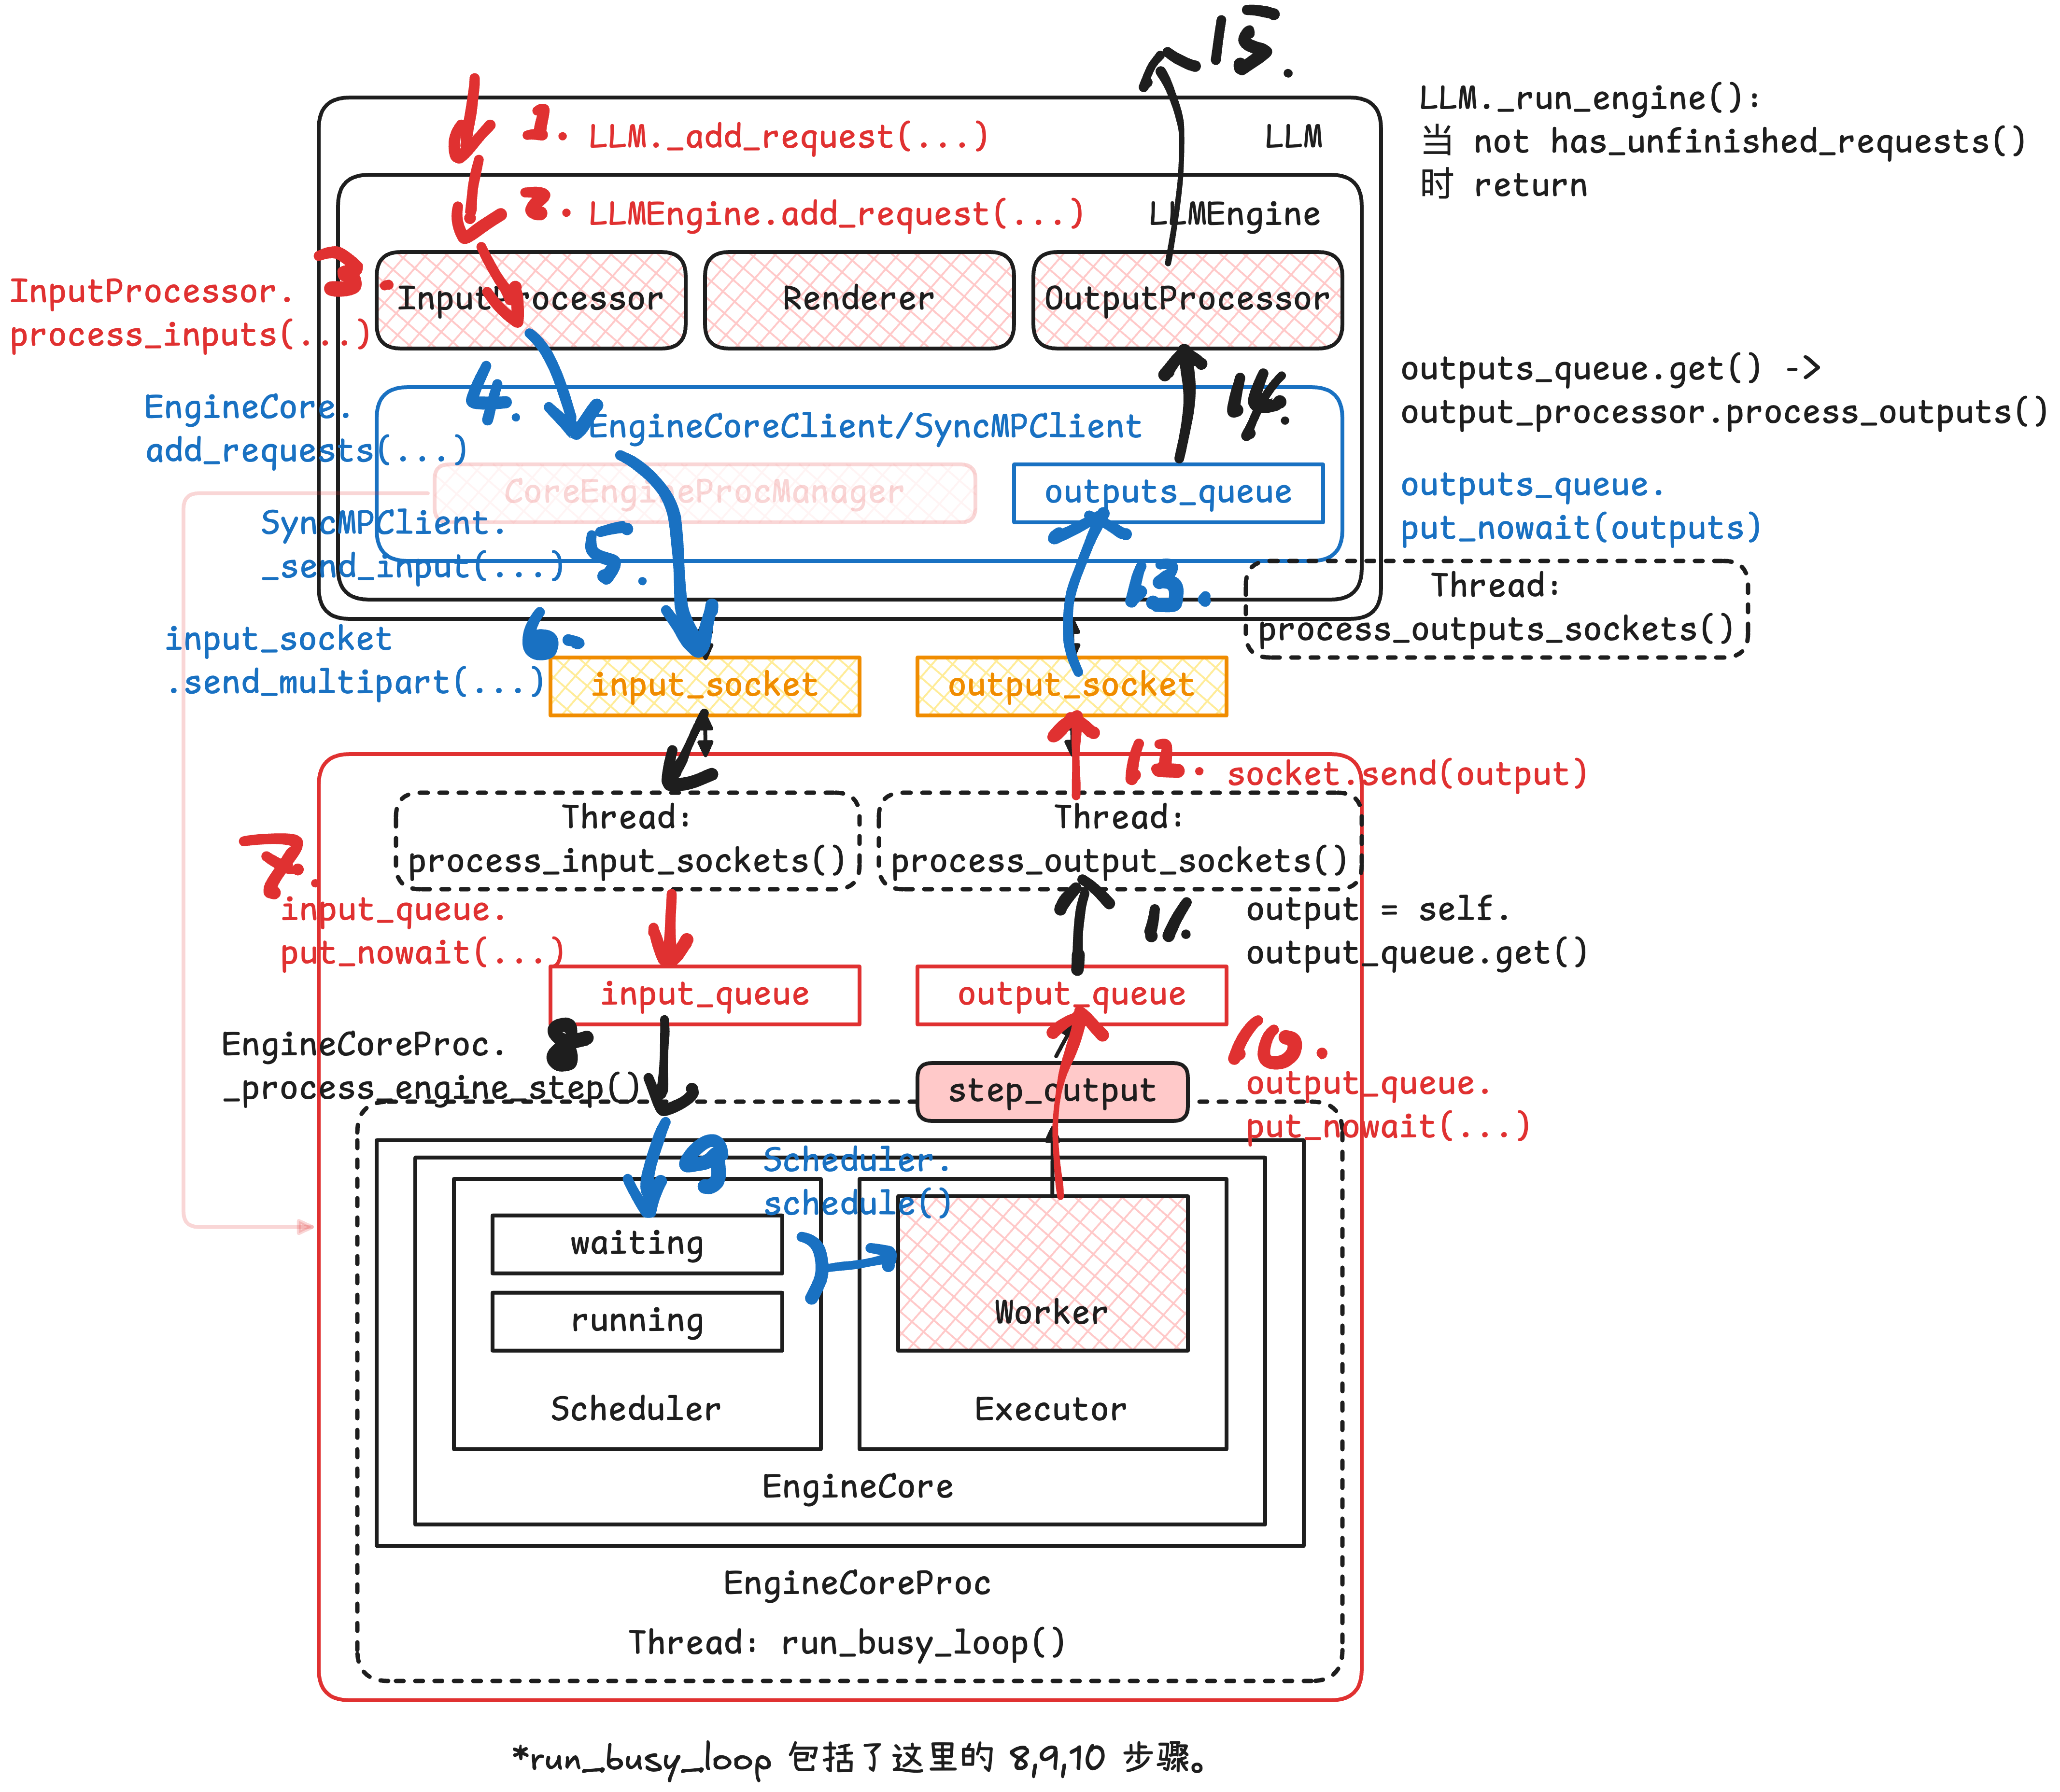
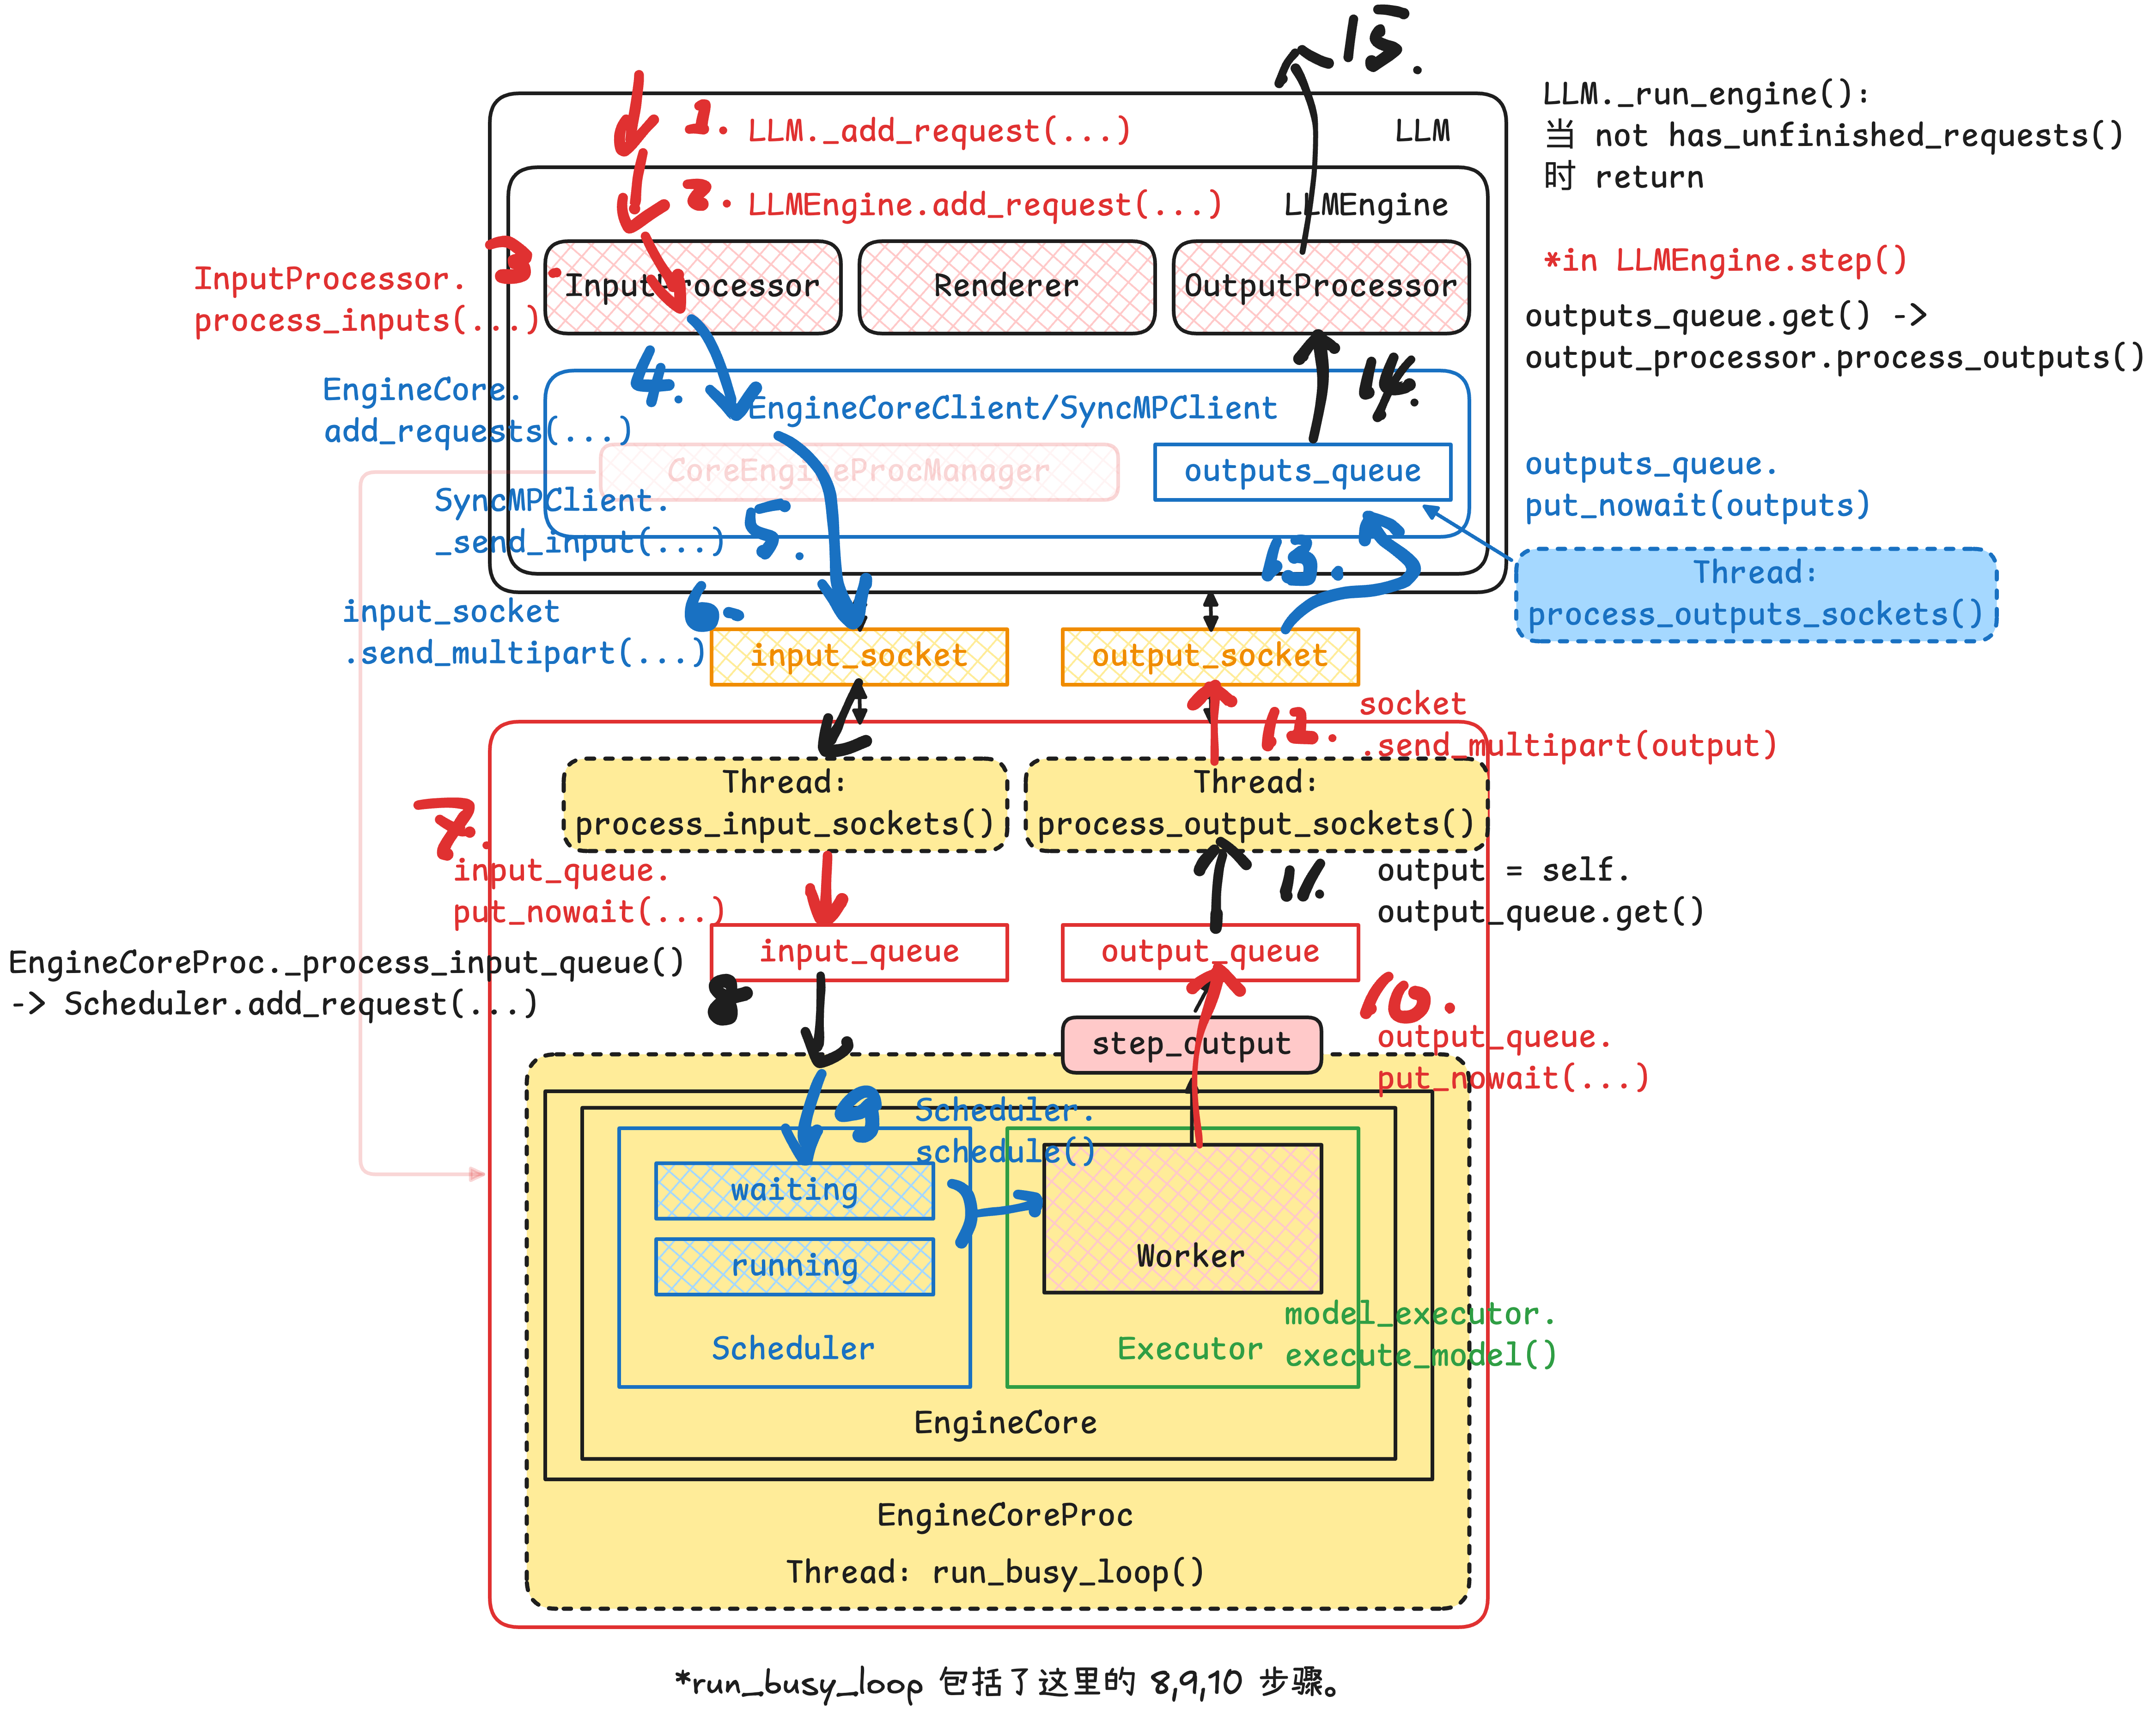
feat(blog): add blog

Changed region(s): [[0.0, 0.0, 0.9977, 0.9688], [0.2494, 0.9688, 0.6235, 1.0]]

diff --git a/src/content/posts/paper-reading/LLM Emulation.md b/src/content/posts/paper-reading/LLM Emulation.md
@@ -1,0 +1,114 @@
+---
+title: 【论文阅读笔记】LLM Emulation：Revati 和 LLM-Emu
+published: 2026-05-24T20:24:04.974Z
+description: ""
+updated: ""
+tags:
+  - Paper-Reading
+draft: true
+pin: 0
+toc: true
+lang: ""
+abbrlink: llm-simulator
+---
+## LLM 模拟器介绍
+
+### LLM Simulator/Emulator 使用动机
+
+
+**LLM Simulator/Emulator 可以有效减少评估部署配置成本 (Revati)**。
+
+以部署 Qwen3-235B-A22B 为例：运维人员需要选择
+- 张量并行（TP）度数（1–8）
+- 流水线并行（PP）阶段数（1–8）
+- 专家并行（EP）度数（1–8）
+- 最大 batch size（1–256）
+- chunked prefill 大小（256–8192 tokens）
+- KV Cache 淘汰策略（LRU、LFU、cost-aware）
+- 请求路由策略（round-robin、sticky、cache-aware）
+- 解耦部署策略（prefill/decode 共置还是分离）
+等配置组合，这些共同构成了一个极其巨大的设计空间。
+
+已有研究表明，如果能够根据模型特征与 workload 特征合理调优这些配置，系统吞吐量可以提升 3–5 倍。因此，为了有效部署这些系统，运维人员通常需要在代表性 workload 上测试不同配置，并从中选出既满足延迟要求、又能提供最大吞吐量的方案。
+
+问题在于：评估单个配置通常需要约 2–4 小时的 profiling，才能收集到具有统计意义的 tail latency 数据。对于一个 64-GPU 集群而言，以当前 H100 云端价格（每 GPU 每小时约 2.5–7 美元）计算，仅仅评估 100 个配置，就需要消耗 12,800–25,600 GPU-hours，总成本高达 3.2 万到 17.9 万美元。这意味着，对整个配置空间进行系统性的穷举探索，在工程实践中几乎不可承受。最终，大多数部署者不得不依赖经验性的 heuristics 或少量人工试验来完成配置选择，而难以真正找到全局最优部署方案。
+
+为了降低配置评估成本，当前业界与学术界普遍采用**离散事件模拟器（Discrete-Event Simulators, DES）** 来替代真实硬件实验。这类系统试图以较低代价对 serving system 的运行行为进行建模，从而在不实际执行 GPU 计算的情况下，快速预测不同配置下的系统性能。相比直接在真实集群上反复部署与 profiling，模拟器能够显著降低实验成本，并加速设计空间探索，因此逐渐成为大规模 LLM serving 配置优化中的重要工具。
+
+这些工具的核心做法是：在一个简化的模拟框架中，手动**重新实现**服务系统的控制逻辑，例如调度器、内存分配器以及请求路由器。随后，通过一个性能模型来预测 GPU 执行某个 batch 所需要的时间。模拟器会将自己的时钟推进这么长的时间，并继续处理下一个事件。
+
+由于整个过程中不需要真正执行 GPU 计算，这类模拟器可以在无需真实硬件的前提下，实现相比真实运行速度快一个数量级的加速。
+
+### Simulator 和 Emulator 区别
+
+传统的 **Simulator** 并不会直接运行真实的 serving system，而是手动复现其中的核心逻辑，例如 scheduler、batching、KV cache 管理与请求调度等，再结合 workload trace 与性能模型来模拟系统行为。因此，本质上它是在“重新实现”一个简化版系统，其准确性高度依赖于模型是否能够正确刻画真实系统的行为。
+
+而 **Emulator** 则不同，它会直接运行真实的 serving framework（例如 vLLM 或 SGLang）的原始代码，保留真实的 control plane 与调度逻辑，只对底层硬件执行部分进行虚拟化，例如将 GPU computation、CUDA API 调用或显存分配替换为 sleep、runtime prediction 或 virtual time jump 等机制。因此，Emulator 的核心思想并不是重新模拟系统逻辑，而是在“真实系统 + 虚拟硬件”的基础上运行，从而尽可能减少 simulator 中常见的 semantic gap 问题。
+
+
+### 现有 LLM Simulator 局限性
+
+
+1. 重新实现 serving framework 的调度与运行时逻辑相关问题 (Revati)
+	1. 实现细节高度复杂，复现逻辑和实际实现不同
+	2. 同样策略或逻辑在不同框架下有不同实现方式等
+	3. 实际代码迭代快导致代码维护困难
+2. 因此考虑能不能做 Emulator 来减少代码复现，同时实现更高性能建模效果
+
+## Revati (26.01)
+
+> 参考论文：[Revati: Transparent GPU-Free Time-Warp Emulation for LLM Serving](https://arxiv.org/abs/2601.00397)
+
+**Strawman approach: Sleep-Based Emulation**. 保留真实运行系统，但是当要去调用 GPU（例如内存分配、前向推理）的时候，直接替换为 `sleep(...)`.
+- 通过拦截 CUDA API calls via `LD_PRELOAD` 实现（在运行时做）
+- `sleep` 的时候阻塞 CPU thread
+- 因此事件没有被加速
+
+
+**Time-Accelerated Emulation**. 直接跳过 `sleep` 持续的时间，直接进入到下一个事件的 timestamp
+- 不阻塞，直接快进
+- 这是基于 data plane 的结果不影响 control plane 调度逻辑假设（对现行 LLM serving sytem 成立）
+- **需要保证是在保留因果关系的前提下**（需要我们实现）
+
+因此需要解决问题：**分布式离散事件模拟（PDES）**。如何在多个真实并发进程之间安全推进 virtual time，而不破坏 causality。
+
+现有的实现方式
+- Optimistic approaches：所有进程独立推进，遇到因果关系冲突回滚
+	- 不适用，因为我们这是 Emulation，不能回滚
+- **Conservative approaches**：各个进程在推进之前，需要先协调当前最远能够安全推进到哪里，所有进程固定推进一个当前全局安全的位置
+
+
+![Revati Conservative approach 的实现细节](Attachments/revati-convervative-approaches.png)
+
+可以理解为：
+
+```
+while True:
+    collect_all_actor_targets()
+    t = min(targets)
+    global_virtual_time = t
+    broadcast(t) // advance_to(t)
+```
+
+
+其他：
+- 在实现上，如果想 fake GPU，不能把所有 GPU memory 都一起 fake 掉。serving framework 的 GPU memory 里，有一部分其实承担了控制逻辑通信。这些数据在内存空间里实现。
+- 论文没有开源，也在 LLM-Emu 中被批评说拦截 API 行为并不稳定。
+
+## LLM-Emu (26.05)
+
+> 参考论文：[LLM-Emu: Native Runtime Emulation of LLM Inference via Profile-Driven Sampling](https://arxiv.org/abs/2605.00616)
+
+![LLM-Emu Workflow](Attachments/LLM-Emu.png)
+
+LLM-Emu 在 Revati 的基础上：
+
+- 离线采集真实 GPU 执行数据，建立 `(total_tokens, concurrency) -> latency distribution` 的 profile；
+- 将固定 `sleep(...)` 的 GPU emulation 替换为基于 profile 的 latency sampling 与 timer-based waiting；
+- 不采用 Revati 式的 aggressive time-warp，而是在真实 wall-clock 下运行真实 vLLM serving runtime。
+
+因此，虽然 GPU compute 被跳过，但 scheduler、KV-cache 管理、异步 worker、queueing、HTTP serving 等控制路径仍然沿用真实 runtime，从而能够保留 jitter、tail latency 与 request interaction 等在线 serving dynamics。
+
+其他：
+- 论文没有提到多 worker 时间协调，多节点 clock consistency 等等。
+- 代码开源在：https://github.com/AKafakA/llm-emu。且前公开的  LLM-Emu GitHub 仓库里，核心 patch 明确只接到了 `vllm.v1.executor.uniproc_executor`，只默认单机。

diff --git a/src/content/posts/vLLM/vLLM v1 离线推理流程源码 Debug.md b/src/content/posts/vLLM/vLLM v1 离线推理流程源码 Debug.md
@@ -28,7 +28,7 @@ abbrlink: vllm-system-offline-debug
 
 ![](Attachments/vLLM-v1-Offline-Inference.png)
 
-在离线推理阶段，可以用上图来表示所有组件之间的关系。需要注意的是 LLM 框和 EngineCoreProc 分别画在不同的框里，代表两个组件分别在不同的进程之间运行。正如下文将会看到，两个进程需要进行通信，通过 [Python ZMQ：消息传递库](../parallelism/Python%20ZMQ：消息传递库.md) 实现，以及通过 `input_socket` 和 `output_socket` 进行通信。途中 `CoreEngineProcManager` 指向 `EngineCoreProc` 的箭头表示 `CoreEngineProcManager` 负责维护这个进程的生命周期、上下文管理等。
+在离线推理阶段，可以用上图来表示所有组件之间的关系。需要注意的是 LLM 框和 EngineCoreProc 分别画在不同的框里，代表两个组件分别在不同的进程之间运行。正如下文将会看到，两个进程需要进行通信，通过 [Python ZMQ：消息传递库](../parallelism/Python%20ZMQ：消息传递库.md) 实现，以及通过 `input_socket` 和 `output_socket` 进行通信。图中 `CoreEngineProcManager` 指向 `EngineCoreProc` 的箭头表示 `CoreEngineProcManager` 负责维护这个进程的生命周期、上下文管理等。
 
 ## 初始化阶段
 
@@ -105,7 +105,7 @@ abbrlink: vllm-system-offline-debug
 这里进入 `launch_core_engines(...)` 函数。
 - 这个函数会创建一个 `CoreEngineProcManager` 对象，专门负责创建一个或多个（在多 DP/TP 等场景下）`EngineCoreProc` 实例、其运行环境配置以及生命周期管理，避免孤儿进程以及 `EngineCoreProc` 意外死亡等
 - 这个函数不属于 `EngineCoreClient (SyncMPClient)`
-- 生成的 `CoreEngineProcManager` 是返回给 `EngineCoreClient (SyncMPClient)` 持有（在后文将看到）。
+- 生成的 `CoreEngineProcManager` 是返回给 `EngineCoreClient (SyncMPClient)` 持有（结合前文第二张图和后文可以看到）。
 
 :::gallery
 ![](Attachments/vLLM-Basics-12.png)
@@ -208,6 +208,27 @@ abbrlink: vllm-system-offline-debug
 
 > 下面段落我让 GPT 帮我标注了一下对应 vLLM GitHub 仓库代码位置，感谢大模型🙏
 
+### 请求提交
+
+```
+LLM.generate(...)
+|--- LLM._run_completion(...)
+     |--- LLM._add_completion_requests(...)
+     |    |--- LLM._render_and_add_requests(...)
+     |         |--- LLM._add_request(...)
+     |              |--- LLMEngine.add_request(...)
+     |                   |--- LLMEngine.input_processor.process_inputs(...)
+     |                   |    |--- return EngineCoreRequest
+     |                   |
+     |                   |--- LLMEngine.output_processor.add_request(...)
+     |                   |    |--- 在主进程登记 request 状态
+     |                   |
+     |                   |--- LLMEngine.engine_core.add_request(...)
+     |                        |--- SyncMPClient.add_request(...)
+     |                             |--- SyncMPClient._send_input(...)
+     |                                  |--- SyncMPClient.input_socket.send_multipart(...)
+```
+
 1. 在 [`LLM.generate(...)`](https://github.com/Languisher/vllm-260519/blob/d247a931cc25e7253feccbd6260d48216ff5c081/vllm/entrypoints/llm.py#L425-L493) 时会调用 [`LLM._run_completion(...)`](https://github.com/Languisher/vllm-260519/blob/d247a931cc25e7253feccbd6260d48216ff5c081/vllm/entrypoints/llm.py#L1064-L1085)
    - 因此会调用 [`LLM._add_completion_requests(...)`](https://github.com/Languisher/vllm-260519/blob/d247a931cc25e7253feccbd6260d48216ff5c081/vllm/entrypoints/llm.py#L1017-L1062) 和 [`LLM._run_engine(...)`](https://github.com/Languisher/vllm-260519/blob/d247a931cc25e7253feccbd6260d48216ff5c081/vllm/entrypoints/llm.py#L1258-L1318)
    - 先看 [`LLM._add_completion_requests(...)`](https://github.com/Languisher/vllm-260519/blob/d247a931cc25e7253feccbd6260d48216ff5c081/vllm/entrypoints/llm.py#L1017-L1062)，会先调用 [`LLM._render_and_add_requests(...)`](https://github.com/Languisher/vllm-260519/blob/d247a931cc25e7253feccbd6260d48216ff5c081/vllm/entrypoints/llm.py#L1213-L1237)
@@ -237,6 +258,33 @@ abbrlink: vllm-system-offline-debug
 
    这里真正发生跨进程通信。请求会被编码成 multipart message，里面包含目标 EngineCore identity、请求类型以及序列化后的请求内容。对于主进程来说，到这一步它已经把任务“投递”出去了；真正的调度、KV Cache 管理、模型 forward 都发生在另一侧的 `EngineCoreProc` 中。
 
+### 后端执行
+
+```
+EngineCoreProc.process_input_sockets(...)
+|--- socket.recv_multipart(...)
+|--- deserialize request
+|--- EngineCoreProc.input_queue.put_nowait((request_type, request))
+
+EngineCoreProc.run_busy_loop(...)
+|--- EngineCoreProc._process_input_queue()
+|    |--- EngineCoreProc._handle_client_request(...)
+|         |--- EngineCoreProc.add_request(...)
+|              |--- EngineCore.scheduler.add_request(...)
+|
+|--- EngineCoreProc._process_engine_step()
+     |--- EngineCore.step()
+          |--- Scheduler.schedule()
+          |    |--- 生成本轮 SchedulerOutput
+          |
+          |--- model_executor.execute_model(...)
+          |    |--- 执行本轮模型 forward
+          |
+          |--- 生成 EngineCoreOutputs
+          |
+		  |--- output_queue.put_nowait(outputs)
+```
+
 7. 现在我们进入了 [`EngineCoreProc`](https://github.com/Languisher/vllm-260519/blob/d247a931cc25e7253feccbd6260d48216ff5c081/vllm/v1/engine/core.py#L796-L909) 进程。`EngineCoreProc` 包含了三个线程：[`process_input_sockets()`](https://github.com/Languisher/vllm-260519/blob/d247a931cc25e7253feccbd6260d48216ff5c081/vllm/v1/engine/core.py#L1396-L1489), [`process_output_sockets()`](https://github.com/Languisher/vllm-260519/blob/d247a931cc25e7253feccbd6260d48216ff5c081/vllm/v1/engine/core.py#L1491-L1562) 和 [`run_busy_loop()`](https://github.com/Languisher/vllm-260519/blob/d247a931cc25e7253feccbd6260d48216ff5c081/vllm/v1/engine/core.py#L1174-L1179)。首先由 [`process_input_sockets()`](https://github.com/Languisher/vllm-260519/blob/d247a931cc25e7253feccbd6260d48216ff5c081/vllm/v1/engine/core.py#L1396-L1489) 读取来自 `input_sockets` 的数据写入 `input_queue`: [`EngineCoreProc.input_queue.put_nowait((request_type, request))`](https://github.com/Languisher/vllm-260519/blob/d247a931cc25e7253feccbd6260d48216ff5c081/vllm/v1/engine/core.py#L1487-L1489)[^4]
 
    `process_input_sockets()` 是一个专门负责 IO 的线程。它并不直接调度请求，而是把 socket 中收到的请求解码之后放入 `input_queue`。这样设计的好处是：ZMQ IO、反序列化、请求预处理和真正的调度执行可以解耦，避免模型执行主循环被 socket IO 细节阻塞。
@@ -255,9 +303,45 @@ abbrlink: vllm-system-offline-debug
 
    这一步是真正的推理执行阶段。`scheduler.schedule()` 会根据当前所有 waiting/running requests、KV Cache 状态、token budget 等信息生成本轮的 `SchedulerOutput`。随后 `model_executor.execute_model(...)` 根据 scheduler 给出的 batch 执行模型 forward。换句话说，scheduler 决定这一轮算什么，model executor 负责“真正把这一轮算出来。
 
+
 10. [`EngineCoreProc._process_engine_step()`](https://github.com/Languisher/vllm-260519/blob/d247a931cc25e7253feccbd6260d48216ff5c081/vllm/v1/engine/core.py#L1210-L1229) 的末尾会执行 [`EngineCoreProc.output_queue.put_nowait(...)`](https://github.com/Languisher/vllm-260519/blob/d247a931cc25e7253feccbd6260d48216ff5c081/vllm/v1/engine/core.py#L1214-L1217)，放入 `output_queue`
 
    模型执行结束后，scheduler 会根据模型输出更新每个请求的状态，例如生成了哪些 token、哪些请求已经 finished、哪些请求仍然需要继续 decode。随后这些结果会被包装成 `EngineCoreOutputs`，放入 `output_queue`，等待输出线程发回主进程。
+
+### 结果回收
+
+```
+EngineCoreProc.process_output_sockets(...)
+|--- EngineCoreProc.output_queue.get()
+|--- socket.send_multipart(...)
+
+SyncMPClient.process_outputs_socket(...)
+|--- output_socket.recv_multipart(...)
+|--- deserialize EngineCoreOutputs
+|--- SyncMPClient.outputs_queue.put_nowait(outputs)
+
+*********************
+
+LLM._run_engine(...)
+|--- while LLMEngine.has_unfinished_requests():
+     |--- LLMEngine.step()
+          |--- LLMEngine.engine_core.get_output()
+          |    |--- SyncMPClient.get_output()
+          |         |--- SyncMPClient.outputs_queue.get()
+          |
+          |--- LLMEngine.output_processor.process_outputs(...)
+          |    |--- detokenization
+          |    |--- stop condition check
+          |    |--- finished request update
+          |    |--- construct RequestOutput
+          |
+          |--- return list[RequestOutput]
+
+LLM._run_engine(...)
+|--- collect outputs
+|--- sort by request_id
+|--- return final outputs
+```
 
 11. 在 [`EngineCoreProc.process_output_sockets()`](https://github.com/Languisher/vllm-260519/blob/d247a931cc25e7253feccbd6260d48216ff5c081/vllm/v1/engine/core.py#L1491-L1562) 线程时，当一次推理 step 完成之后会触发 [`output = self.output_queue.get()`](https://github.com/Languisher/vllm-260519/blob/d247a931cc25e7253feccbd6260d48216ff5c081/vllm/v1/engine/core.py#L1529-L1531)（没完成时会阻塞）
 
@@ -290,5 +374,6 @@ abbrlink: vllm-system-offline-debug
 
 ## 参考资料
 
+- [vLLM First SF Meetup Slides (Public)](https://docs.google.com/presentation/d/1QL-XPFXiFpDBh86DbEegFXBXFXjix4v032GhShbKf3s/edit?slide=id.g24ad94a0065_0_189#slide=id.g24ad94a0065_0_189)
 - [图解Vllm V1系列1：整体流程](https://zhuanlan.zhihu.com/p/1900126076279160869)
 - [vLLM v1源码阅读 : 整体流程梳理（详细debug）](https://blog.csdn.net/goodgood_UP/article/details/148114998)

diff --git a/src/content/posts/rl/强化学习基础（1）：马尔可夫决策过程.md b/src/content/posts/rl/强化学习基础（1）：马尔可夫决策过程.md
@@ -88,6 +88,7 @@ $$
 
 ![](Attachments/MRP.png)
 
+
 **马尔可夫奖励过程 (Markov reward process)**. 在马尔可夫过程的基础上，加上每个状态的奖励函数和回报的折扣因子，可以表示为
 $$
 \text{Markov reward process} =\langle \mathcal{S}, \mathcal{P}, \mathcal{R}, \gamma \rangle